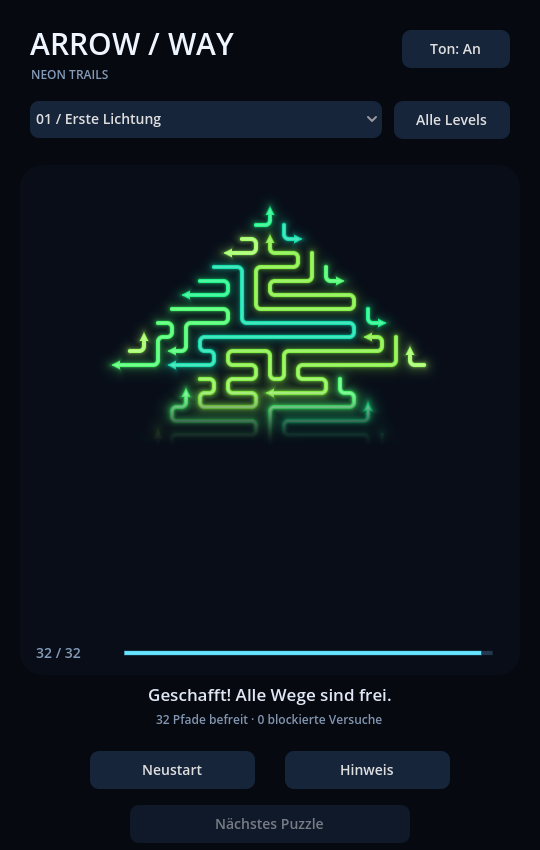
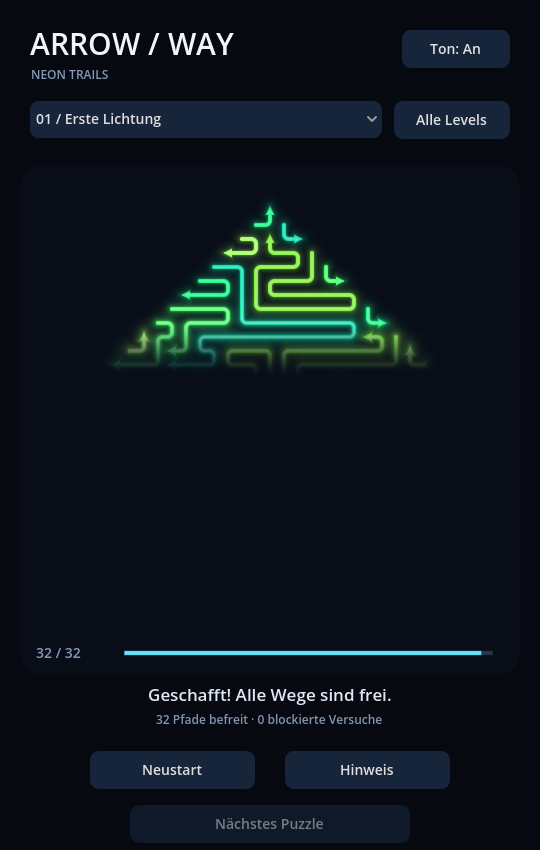
Slow the artwork light wave and brighten the final neon image

Changed region(s): [[0.2074, 0.3671, 0.8, 0.52]]

diff --git a/README.md b/README.md
@@ -10,7 +10,7 @@ Godot **4.x Standard** verwenden; geprüft mit **4.7.2**, GDScript und Compatibi
 
 ## Aktueller Stand · 0.13.1
 
-- **Neonkunstwerk zum Abschluss**: Nach dem letzten entkommenen Pfeil bringt eine weiche Lichtwelle die ursprünglichen Pfeilbahnen samt individuellen Farben und Verläufen zurück. Ein kurzer Leuchtimpuls geht in ein ruhiges Bild über; nach 1,65 Sekunden ist das nächste Puzzle verfügbar. Neustart und Levelwechsel setzen die Darstellung zurück.
+- **Neonkunstwerk zum Abschluss**: Nach dem letzten entkommenen Pfeil bringt eine weiche Lichtwelle die ursprünglichen Pfeilbahnen samt individuellen Farben und Verläufen zurück. Ein kurzer Leuchtimpuls geht in ein helles Standbild über; nach 1,95 Sekunden ist das nächste Puzzle verfügbar. Neustart und Levelwechsel setzen die Darstellung zurück.
 
 - **Motivbibliothek** mit sofortiger Suche nach Titel, Sammlung und Themen, Sternfavoriten und Filtern für geschaffte, offene oder spielbare Motive. Filter lassen sich kombinieren und mit **Alles zeigen** zurücksetzen. Favoriten bleiben beim Neustart erhalten; beim Zurückkehren bleibt die Position in der Übersicht erhalten.
 
